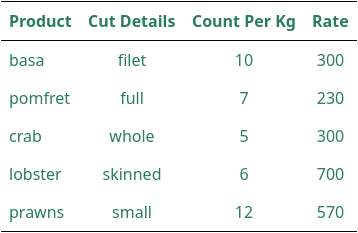
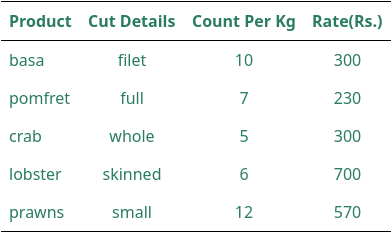
More compact site

diff --git a/online_menu_maker/templates/base.html b/online_menu_maker/templates/base.html
@@ -4,20 +4,25 @@
     <head>    
     <meta charset="utf-8">
         <title>
-            {% block title %}
-            {{ page_title|default:"Untitled Page" }}
-            {% endblock title %}
+            Online Menu Maker
         </title>
     </head>
     <body>
         <header id="header">
             Online Menu Maker
-            <a href="/edit" class="btn">Edit Images</a>
             <a href="/admin" class="btn">Edit Menu</a>
-            <a href="/" class="btn">View Menu</a>
         </header>
-        {% block content %}
-            <p>Placeholder text in base template. Replace with page content.</p>
-        {% endblock content %}
+      
+    <form method="post" enctype="multipart/form-data" action="">
+        {% csrf_token %}
+        Choose Images:
+        <input type="file" name="img1" class="button">
+        <input type="file" name="img2" class="button">
+        <input type="file" name="img3" class="button">
+        <button type="submit">Upload Selected Images</button>
+    </form>
+    <h1>Current Menu:</h1>
+    <a href="#"><img src="{% static 'menu.jpg' %}" alt=""></a>
+       
     </body>
 </html>

diff --git a/menu_maker/templates/menu_maker/home.html b/menu_maker/templates/menu_maker/home.html
@@ -1,0 +1,8 @@
+{% extends "base.html" %}
+{% load static %}
+
+{% block title %}Edit menu images | Online Menu Maker{% endblock title %}
+
+{% block content %}
+
+{% endblock content %}

diff --git a/menu_maker/views.py b/menu_maker/views.py
@@ -4,10 +4,28 @@ from django.http import HttpResponseRedirect
 from .picmerge import PicMerge
 from django.conf import settings
 from django.core.files.storage import FileSystemStorage
+from django.utils.datastructures import MultiValueDictKeyError
 import os
 BASE_DIR = os.path.dirname(os.path.dirname(os.path.abspath(__file__)))
 
-def MenuDispView(request):
+def HomePageView(request):
+    if request.method == 'POST':
+        fs = FileSystemStorage()
+        try:
+            if request.FILES['img1']:
+                img1 = request.FILES['img1']
+                fs.delete("img1.jpeg")
+                fs.save("img1.jpeg", img1)
+            if request.FILES['img2']:
+                img2 = request.FILES['img2']
+                fs.delete("img2.jpeg")
+                fs.save("img2.jpeg", img2)
+            if request.FILES['img3']:
+                img3 = request.FILES['img3']
+                fs.delete("img3.jpeg")
+                fs.save("img3.jpeg", img3)
+        except MultiValueDictKeyError:
+            pass
     generator = PicGen()
     generator.generate_pic()
     loc1 = os.path.join(BASE_DIR, 'media/img1.jpeg')
@@ -16,25 +34,9 @@ def MenuDispView(request):
     merger = PicMerge(loc1, loc2, loc3)
     merger.merge_pic()
     return render(request, 
-            'menu_maker/menu_disp.html',
+            'base.html',
             )
 
-def ImgChgView(request):
-    if request.method == 'POST':   
-        fs = FileSystemStorage()
-        if request.FILES['img1']: 
-            img1 = request.FILES['img1']
-            fs.delete("img1.jpeg")
-            fs.save("img1.jpeg", img1)
-        if request.FILES['img2']:
-            img2 = request.FILES['img2']
-            fs.delete("img2.jpeg")
-            fs.save("img2.jpeg", img2)
-        if request.FILES['img3']:
-            img3 = request.FILES['img3']
-            fs.delete("img3.jpeg")
-            fs.save("img3.jpeg", img3)
-        return HttpResponseRedirect("/")
-    return render(request, 'menu_maker/img_edit.html')
+
 
 

diff --git a/menu_maker/picgen.py b/menu_maker/picgen.py
@@ -10,7 +10,7 @@ class PicGen:
         self.raw_file = os.path.join(BASE_DIR, 'db.sqlite3')
         self.conn = sqlite3.connect(self.raw_file)
         self.raw_df = pd.read_sql_query("select * from menu_maker_item;",self.conn)
-        self.convert_dict = {"Rate" : "str",
+        self.convert_dict = {"Rate(Rs.)" : "str",
                              "Count Per Kg" : "str"}
         self.style_list = [{'selector':'table .dataframe',
                             'props':[('table-layout','fixed'),
@@ -45,7 +45,7 @@ class PicGen:
         self.filt_df.drop(columns=self.drop_list, inplace=True)
         self.filt_df.columns = [label.title() for label in self.filt_df.columns]
         self.filt_df.reset_index(inplace=True, drop=True)                
-        self.filt_df.columns = ["Product", "Cut Details", "Count Per Kg", "Rate"]
+        self.filt_df.columns = ["Product", "Cut Details", "Count Per Kg", "Rate(Rs.)"]
         self.filt_df = self.filt_df.astype(self.convert_dict, errors='ignore')
 
     def _style_df(self):

diff --git a/menu_maker/picmerge.py b/menu_maker/picmerge.py
@@ -22,11 +22,11 @@ class PicMerge:
         self.header = self.header.resize((self.menu_size[0],\
            int(self.menu_size[0]*self.header_ratio)))
         self.disp_image1 = self.disp_image1.resize((self.menu_size[0]//3,\
-             int(self.disp_image1.size[1]*0.8)))
+             int(self.menu_size[1]//3)))
         self.disp_image2 = self.disp_image2.resize((self.menu_size[0]//3,\
-             int(self.disp_image2.size[1]*0.8)))        
+             int(self.menu_size[1]//3)))        
         self.disp_image3 = self.disp_image3.resize((self.menu_size[0]//3,\
-             int(self.disp_image3.size[1]*0.8)))
+             int(self.menu_size[1]//3)))
         self.bg_image_size = (self.menu_size[0],(self.menu_size[1]\
              + self.header.size[1] + self.disp_image1.size[1]))
         self.bg_image = Image.new("RGB", (self.bg_image_size))

diff --git a/menu_maker/urls.py b/menu_maker/urls.py
@@ -1,6 +1,5 @@
 from django.urls import path
 from . import views
 urlpatterns = [
-    path('', views.MenuDispView, name='current menu'),    
-    path('edit', views.ImgChgView, name='change images')
+    path('', views.HomePageView, name='home'),    
 ]
